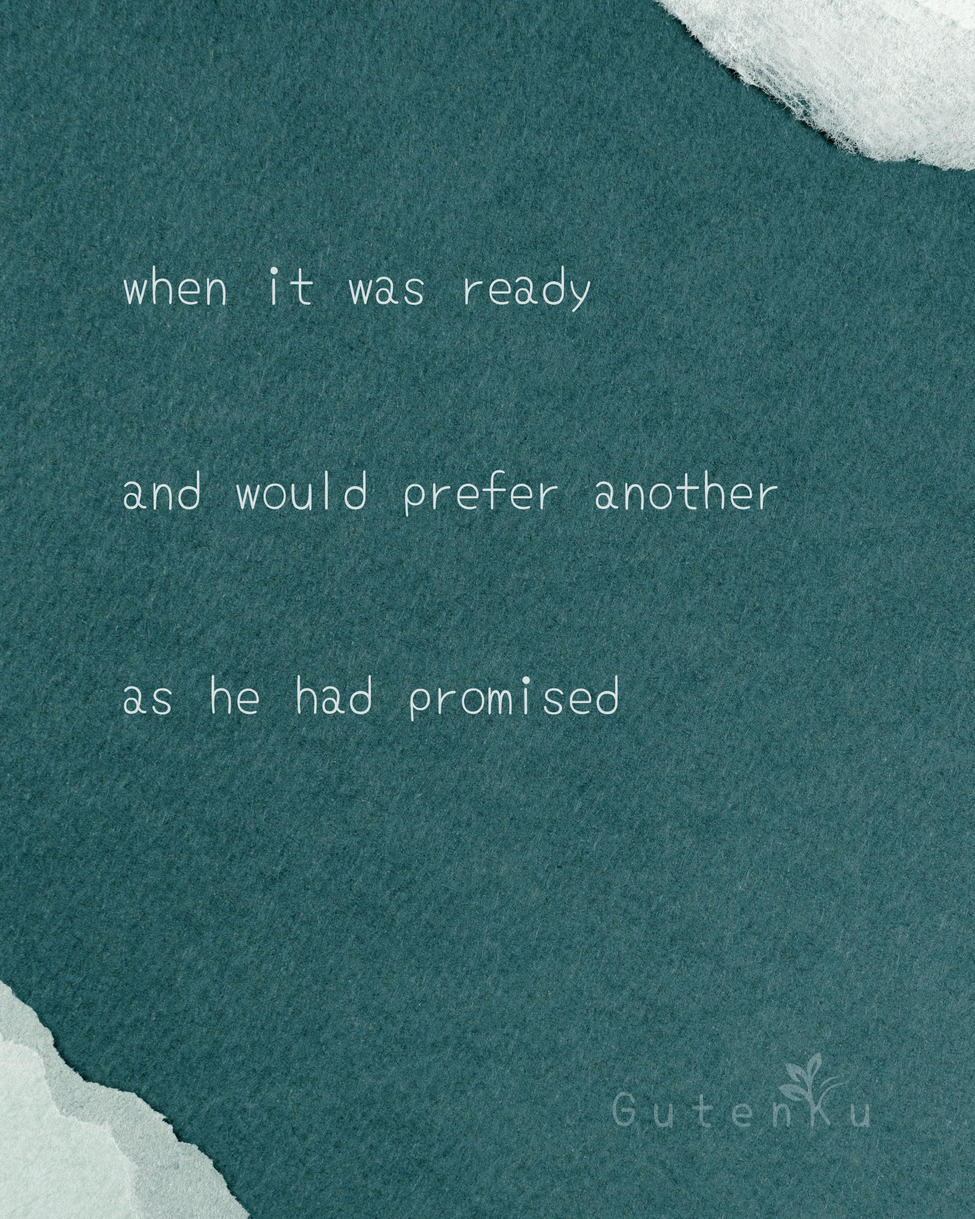
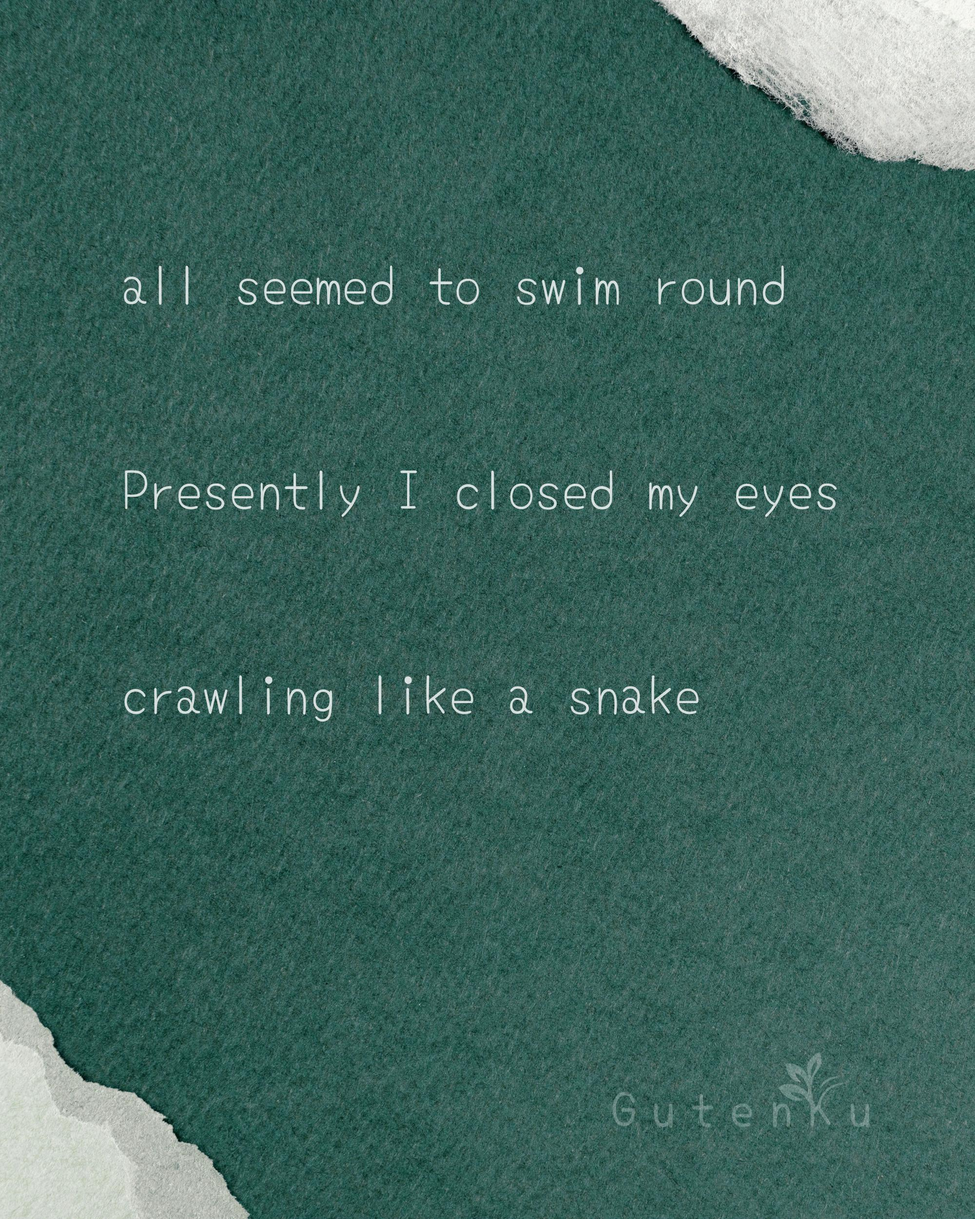
docs(readme): updated daily haiku card

diff --git a/README.md b/README.md
@@ -25,13 +25,13 @@
 <table>
 <tr>
 <td width="300" valign="top">
-<img src="/assets/img/daily_haiku_card.jpg?t=1786010437" width="280" alt="Daily Haiku Card">
+<img src="/assets/img/daily_haiku_card.jpg?t=1786096841" width="280" alt="Daily Haiku Card">
 </td>
 <td valign="top">
 
-> _"This haiku suggests a quiet moment of expectation and change. The phrase "when it was ready" creates a sense of patience and timing, as if something or someone must wait for the right moment. "And would prefer another" hints at a choice, dissatisfaction, or longing for something different. The final line, "as he had promised," introduces a human presence and a sense of duty, showing that a promise has been made and is now being fulfilled. Together, the lines feel restrained and reflective, leaving the reader to imagine what is being replaced, offered, or given anew."_
+> _"This haiku creates a strange, unsettling image of movement and confusion. In the first line, "all seemed to swim round," the speaker suggests that the world feels dizzy, unstable, or dreamlike, as if everything is spinning or floating. The second line, "Presently I closed my eyes," shows a deliberate withdrawal, as though the speaker is overwhelmed and wants to escape the strange sensation. The final line, "crawling like a snake," is vivid and eerie: it suggests slow, silent, and possibly threatening movement. Together, the haiku feels surreal and tense, blending dizziness with animal imagery to create a mood of unease and mystery."_
 
-— **BotenKu** 📅 _Aug 06, 2026_
+— **BotenKu** 📅 _Aug 07, 2026_
 
 </td>
 </tr>
